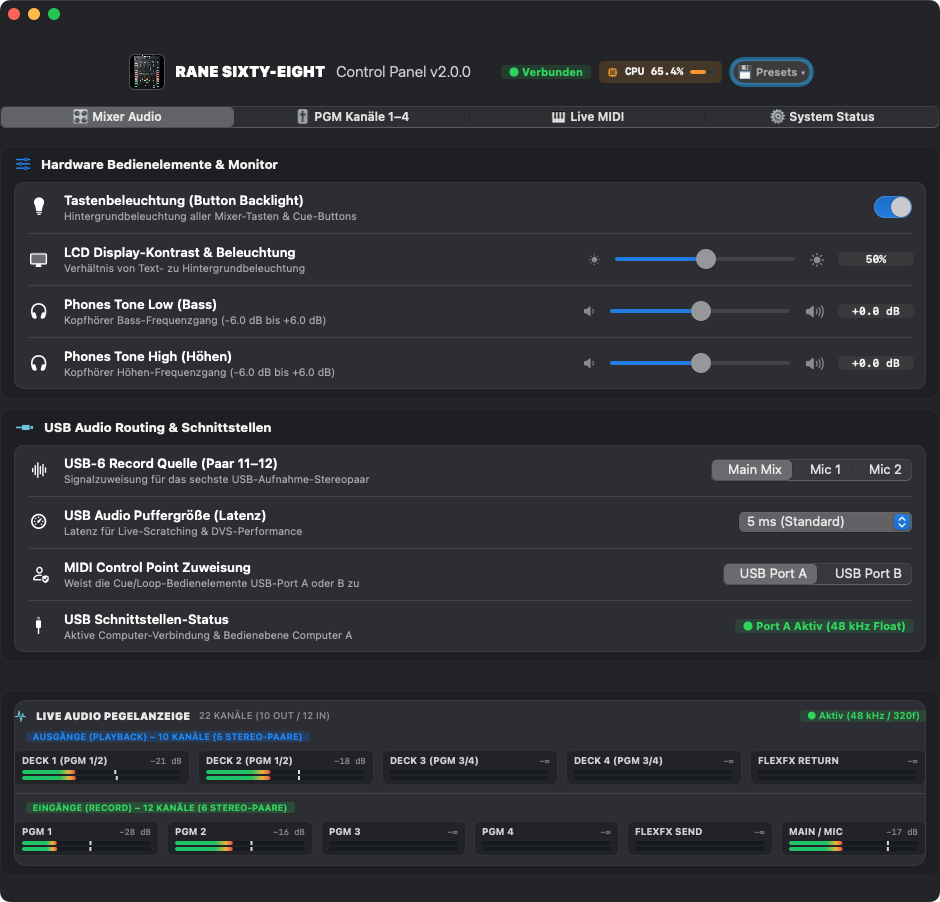
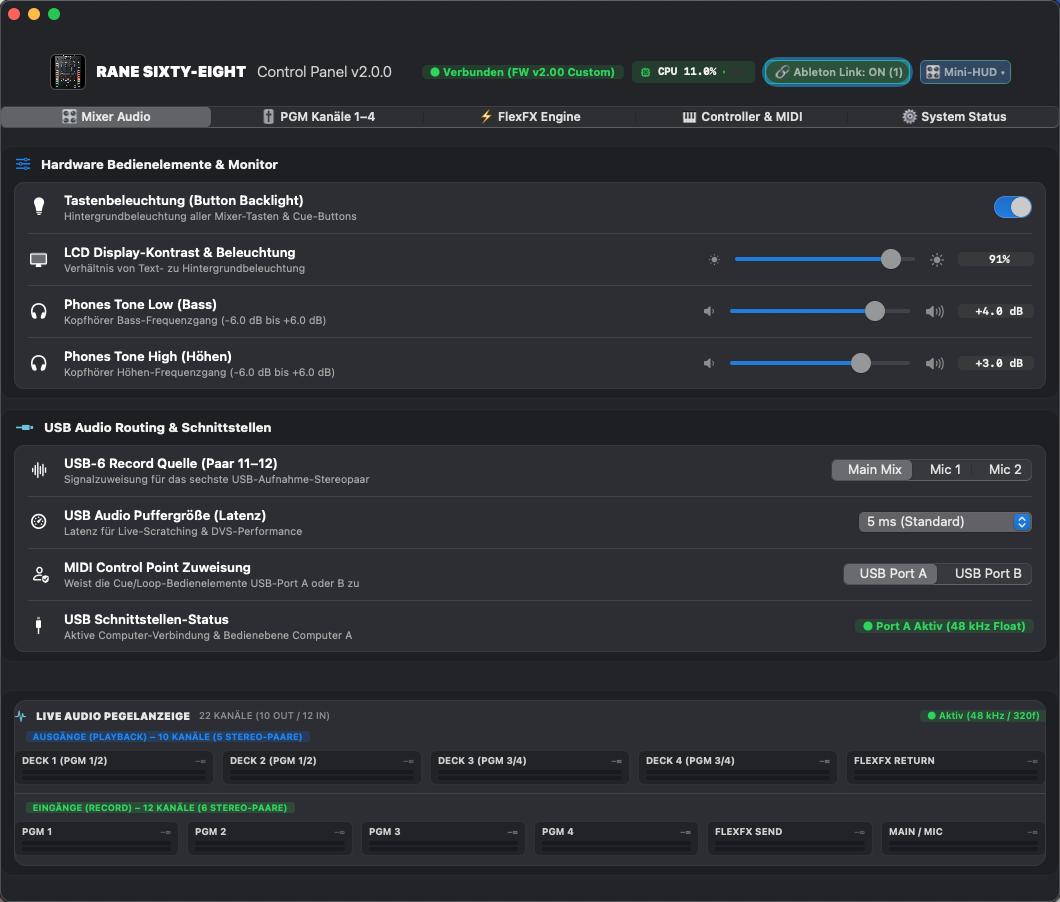
docs: add comprehensive User Guide with screenshots for all tabs, VST engine, and Mini-HUD
- Add docs/USER_GUIDE.md detailing all 5 tabs, 1-slot VST routing, Ableton Link setup, MIDI Learn, and DJ DAW integration
- Capture high-resolution screenshots for all tabs: Mixer Audio, PGM Channels, FlexFX Engine, VST GUI Editor, Controller & MIDI, System Status, and Mini-HUD
- Update README.md with link to the User Guide and interactive screenshot table

diff --git a/docs/USER_GUIDE.md b/docs/USER_GUIDE.md
@@ -1,0 +1,183 @@
+# 📖 Rane Sixty-Eight Control Panel & Treiber – Benutzerhandbuch
+
+Willkommen zum umfassenden Benutzerhandbuch für das **Rane Sixty-Eight Control Panel** und den **CoreAudio HAL-Treiber**. Dieses Dokument führt Sie Schritt für Schritt durch alle Funktionen, Tabs, VST-Effekt-Routings und Ableton-Link-Synchronisationen.
+
+---
+
+## 📑 Inhaltsverzeichnis
+
+1. [Übersicht & Schnellstart](#1-übersicht--schnellstart)
+2. [Tab 1: 🎛 Mixer Audio & Globale Einstellungen](#2-tab-1-🎛-mixer-audio--globale-einstellungen)
+3. [Tab 2: 🎚 PGM Kanäle 1–4 (Preamp & Phono-Setup)](#3-tab-2-🎚-pgm-kanäle-1–4-preamp--phono-setup)
+4. [Tab 3: ⚡ FlexFX Engine, VST-Plugins & Ableton Link](#4-tab-3-⚡-flexfx-engine-vst-plugins--ableton-link)
+   - [Die 1-Slot Kanal-Architektur](#die-1-slot-kanal-architektur)
+   - [VST-Plugin laden und Editor öffnen](#vst-plugin-laden-und-editor-öffnen)
+   - [Signalfluss, Pegel & VST-Ducking](#signalfluss-pegel--vst-ducking)
+   - [Ableton Link & Beat-Synchronisation](#ableton-link--beat-synchronisation)
+5. [Tab 4: 🎹 Controller & Live MIDI-Monitor](#5-tab-4-🎹-controller--live-midi-monitor)
+   - [Live MIDI-Log & Filter](#live-midi-log--filter)
+   - [Interaktives MIDI Learn](#interaktives-midi-learn)
+6. [Tab 5: ⚙ System Status, CPU & Hardware-Diagnose](#6-tab-5-⚙-system-status-cpu--hardware-diagnose)
+   - [Hardware-LED-Test & Selbsttests](#hardware-led-test--selbsttests)
+   - [Individueller Mixer-OLED-Begrüßungstext](#individueller-mixer-oled-begrüßungstext)
+7. [Mini-HUD Modus (Floating Live-Overlay)](#7-mini-hud-modus-floating-live-overlay)
+8. [Setup-Guide für DJ-Software (Traktor Pro, Ableton Live, Serato)](#8-setup-guide-für-dj-software)
+
+---
+
+## 1. Übersicht & Schnellstart
+
+Das Rane Sixty-Eight Control Panel ist die zentrale Schaltzentrale für Ihren Rane Sixty-Eight DJ-Mixer unter modernem macOS (macOS 11 Big Sur bis macOS 15 Sequoia).
+
+```mermaid
+flowchart TD
+    Hardware["Rane Sixty-Eight Mixer (USB Port A / B)"] <--> Driver["CoreAudio HAL Driver (RaneHAL.driver)"]
+    Driver <--> Manager["Rane Sixty-Eight Control Panel.app"]
+    Driver <--> DAW["DJ-Software (Traktor / Serato / Ableton)"]
+    Manager <--> Link["Ableton Link Session (WLAN / LAN)"]
+    Manager <--> VST["VST2 Effekt-Plugins (.vst)"]
+```
+
+* **Keine Kernel Extensions (Kexts):** Der Treiber läuft 100% im User-Space innerhalb von `coreaudiod`. System Integrity Protection (SIP) muss nicht deaktiviert werden.
+* **22 Audiokanäle:** 10 Playback-Kanäle (Ausgänge vom Mac zum Mixer) und 12 Record-Kanäle (Eingänge vom Mixer in den Mac) bei nativer 48.000 Hz / 32-Bit Float Auflösung.
+
+---
+
+## 2. Tab 1: 🎛 Mixer Audio & Globale Einstellungen
+
+Hier konfigurieren Sie die Hardware-Eigenschaften des Mixers und die CoreAudio-Puffergröße.
+
+![Tab 1: Mixer Audio](screenshots/tab1_mixer_audio.png)
+
+### Kernfunktionen:
+1. **Master Kopfhörer-EQ (Phones Tone):**
+   * Regelt `Low Tone` (-6 dB bis +6 dB) und `High Tone` (-6 dB bis +6 dB) des Kopfhörerverstärkers.
+2. **Hardware-Display & Beleuchtung:**
+   * **LCD Kontrast:** Schieberegler zur Anpassung des FlexFX-Displays am Mixer.
+   * **Mixer-Hintergrundbeleuchtung:** Ein-/Ausschalten der beleuchteten Knöpfe und LED-Taster.
+3. **USB 6 Record Source:**
+   * Bestimmt, welches Signal auf USB-Kanal 11–12 zum Mac übertragen wird (z. B. `Main Mix`, `Mic` oder `Aux`).
+4. **Puffergröße & Latenz (Buffer Frame Size):**
+   * Einstellbar von **64** bis **4096 Samples**.
+   * *Empfehlung für Live-DJing:* **256 Samples** (5,3 ms bei 48 kHz) oder **512 Samples** (10,6 ms).
+5. **Live Audio-Pegelanzeige (Bottom Bar):**
+   * Zeigt permanent in allen Tabs die Ein- und Ausgangspegel aller 22 Kanäle in Echtzeit an.
+
+---
+
+## 3. Tab 2: 🎚 PGM Kanäle 1–4 (Preamp & Phono-Setup)
+
+Konfiguration der Vorverstärker für Plattenspieler (Phono) und CD/Line-Zuspieler.
+
+![Tab 2: PGM Kanäle 1-4](screenshots/tab2_pgm_channels.png)
+
+### Kernfunktionen:
+1. **Phono-Vorverstärker Empfindlichkeit:**
+   * Einstellbare Vorverstärkung in dB für Tonabnehmer mit niedrigerem oder höherem Ausgangspegel.
+2. **Eingangskapazität (Phono Resonance):**
+   * Anpassung der Kapazität (in Picofarad, pF) zur perfekten Frequenzgang-Optimierung Ihrer Tonabnehmer (z. B. Shure M44-7, Ortofon Concorde).
+3. **Hardware-Statusanzeige:**
+   * Zeigt den aktuellen Zustand der physischen Schalter auf der Rückseite (`LINE` vs. `PHONO`) und der Drehschalter (`USB 1–4`, `PH/CD`, `AUX`) sowie der Crossfader-Zuweisung (`CROSSFADER A / POST / B`) an.
+
+---
+
+## 4. Tab 3: ⚡ FlexFX Engine, VST-Plugins & Ableton Link
+
+Das Herzstück für moderne DJ-Sets: Binden Sie beliebige Studio-Effekte (Delays, Reverbs, Filter) direkt in die Kanalzüge ein und synchronisieren Sie diese über das Ableton Link Protokoll.
+
+![Tab 3: FlexFX Engine](screenshots/tab3_flexfx_engine.png)
+
+### Die 1-Slot Kanal-Architektur
+Jeder Kanalzug verfügt über genau einen dedizierten, latenzfreien VST-Slot:
+* **Kanal 1–4 (PGM 1..4):** Schaltet den VST-Effekt direkt als Kanal-Insert auf Deck 1 bis Deck 4.
+* **Kanal 5 (FlexFX Return):** Verarbeitet das Return-Signal des analogen FlexFX-Hardware-Send-Busses des Mixers.
+
+### VST-Plugin laden und Editor öffnen
+1. Klicken Sie auf den gewünschten Kanalreiter (z. B. `PGM 1 (Deck 1)`).
+2. Wählen Sie im Dropdown-Menü das gewünschte VST2-Plugin aus (z. B. *ValhallaDelay*, *FabFilter Timeless*, *TAL-Dub-X*).
+   * *Tipp:* Mit dem Button **„🔄 VST scannen“** können Sie neu installierte Plugins in `/Library/Audio/Plug-Ins/VST/` jederzeit neu einlesen.
+3. Klicken Sie auf **„🎛 Editor“**, um das Original-Plugin-Interface zu öffnen:
+
+![VST Editor](screenshots/tab3_vst_editor.png)
+
+### Signalfluss, Pegel & VST-Ducking
+* **Pre-Gain & Post-Gain:** Regeln den Eingangspegel in den Effekt und den Ausgangspegel zurück in den Kanal.
+* **Direkter Signalpfad (Dry):** Gewährleistet, dass das Original-Musiksignal stets 100% sauber und ohne Phasenprobleme erhalten bleibt.
+* **VST Ducking Slider:** Regelt automatisch das Dry-Signal herunter, wenn der Effekt-Pre-Gain aufgedreht wird (intelligente Cross-Fade-Dynamik).
+
+### Ableton Link & Beat-Synchronisation
+* **Link Aktivieren:** Klicken Sie auf den Button **`🔗 Ableton Link: ON`**. Sobald ein anderes Gerät oder eine App im selben WLAN/Netzwerk aktiv ist, leuchtet der Badge grün: **`● ABLETON LINK: ON (1 PEER)`**.
+* **Phasenstabilität:** Das Mixer-OLED und die 4 Beat-LEDs richten sich über das Link-Beatgrid automatisch am 4/4-Takt aus.
+* **Hardware BPM-Sync:** Der Mixer empfängt das Link-Tempo automatisch; auf dem Mixer-OLED blinkt der Asterisk `*` im Takt der Musik.
+
+---
+
+## 5. Tab 4: 🎹 Controller & Live MIDI-Monitor
+
+Das Control Panel empfängt und visualisiert alle MIDI-Nachrichten des Rane Sixty-Eight.
+
+![Tab 4: Controller & MIDI](screenshots/tab4_controller_midi.png)
+
+### Live MIDI-Log & Filter
+* **Kanal- und Event-Filter:** Blenden Sie gezielt bestimmte MIDI-Kanäle (Ch 1–16) oder Nachrichtentypen (Note-On, Control Change, Pitch Bend) ein oder aus.
+* **Auto-Scroll & Pause:** Halten Sie den Log an, um gesendete Werte von Fadern, Knöpfen oder Encodern präzise zu untersuchen.
+
+### Interaktives MIDI Learn
+Sie können jeden virtuellen Button und Regler der App direkt auf Tasten oder Knöpfe des Rane Sixty-Eight mappen:
+1. Klicken Sie auf das **„🎹 MIDI Learn“**-Badge neben dem gewünschten Parameter (das Badge leuchtet gelb auf).
+2. Bewegen oder drücken Sie das gewünschte Bedienelement am Mixer.
+3. Das Mapping wird sofort gespeichert und aktiv geschaltet.
+
+---
+
+## 6. Tab 5: ⚙ System Status, CPU & Hardware-Diagnose
+
+Umfassende Diagnose- und Überwachungswerkzeuge für maximale Stabilität im Live-Betrieb.
+
+![Tab 5: System Status](screenshots/tab5_system_status.png)
+
+### Hardware-LED-Test & Selbsttests
+* **LED Chaser Lichtcheck:** Testet alle LEDs und Hintergrundbeleuchtungen der Mixer-Oberfläche nacheinander.
+* **USB-Stresstest:** Überprüft die Bandbreite und Puffer-Integrität des USB-Busses unter Maximallast.
+
+### Individueller Mixer-OLED-Begrüßungstext
+Im Feld **„Mixer OLED Begrüßungstext“** können Sie einen zweizeiligen Text (jeweils 14 Zeichen) eingeben (z. B. `DJ RESIDENT` / `READY TO ROCK`). Dieser wird beim Einschalten der App für 5 Sekunden auf dem physikalischen Mixer-Display angezeigt.
+
+---
+
+## 7. Mini-HUD Modus (Floating Live-Overlay)
+
+Wenn Sie während des Auflegens mit Traktor Pro, Serato DJ oder Ableton Live den gesamten Bildschirm für Ihre Decks benötigen, können Sie das Control Panel in das **Mini-HUD** minimieren:
+
+1. Klicken Sie oben rechts im Header auf **„🎛 Mini-HUD ▾“**.
+2. Das große Fenster wird ausgeblendet und ein schlankes, frei verschiebbares Floating-Panel dockt sich an:
+
+![Mini HUD](screenshots/mini_hud.png)
+
+* **Features im Mini-HUD:**
+  * Live BPM-Anzeige & Takt-Punkte.
+  * Ableton Link Verbindungsstatus.
+  * 1-Klick-Effekt-Schalter (An / Aus) und Vor/Nachher-Routing (PRE / POST).
+  * Mit **`⤢ FULL`** kehren Sie jederzeit sofort in das vollständige Control Panel zurück.
+
+---
+
+## 8. Setup-Guide für DJ-Software
+
+### Traktor Pro 3 / 4
+1. **Audio Device auswählen:** In *Preferences → Audio Setup* als Audio Device **„Rane Sixty-Eight“** wählen.
+2. **Puffergröße (Latency):** Auf **256 Samples** (oder 512 Samples) einstellen.
+3. **Output Routing:**
+   * *Deck A:* Output 1 / 2 (PGM 1)
+   * *Deck B:* Output 3 / 4 (PGM 2)
+   * *Deck C:* Output 5 / 6 (PGM 3)
+   * *Deck D:* Output 7 / 8 (PGM 4)
+4. **Flüssige Waveforms:** Falls die Waveform auf externen Bildschirmen ruckelt, stellen Sie in den macOS-Systemeinstellungen die Bildwiederholrate des Monitors auf **60 Hz** ein.
+
+### Ableton Live
+1. In *Einstellungen → Audio* den **Rane Sixty-Eight** als Audio-Eingangs- und Ausgangsgerät festlegen.
+2. Im Control Panel oben rechts auf **`🔗 Ableton Link: ON`** klicken und in Ableton Live oben links ebenfalls **`Link`** aktivieren. Beide Programme synchronisieren Tempo und Takt sofort über das lokale Netzwerk.
+
+---
+
+*Entwickelt mit Leidenschaft für die Rane Sixty-Eight DJ-Community.*

diff --git a/README.md b/README.md
@@ -15,17 +15,26 @@ A modern, high-performance, **100% User-Space CoreAudio HAL Driver** and **MIDI 
 > [!NOTE]
 > **Zero Kernel Extensions (Kexts) required!** Runs completely in user-space inside macOS `coreaudiod`. No need to disable System Integrity Protection (SIP) or lower system security on Apple Silicon.
 
+📖 **[Ausführliches Benutzerhandbuch & Dokumentation (User Guide)](docs/USER_GUIDE.md)** mit Schritt-für-Schritt-Anleitungen für alle Tabs, VST2-Effekte, Ableton Link und DJ-Software-Einrichtung (Traktor / Serato / Ableton).
+
 ---
 
-## 📸 Screenshots
+## 📸 Screenshots & Interface-Übersicht
 
-| 🎛 Mixer Audio & Buffer Latency | 🎚 PGM Channels 1–4 Routing |
+| 🎛 Mixer Audio & CoreAudio Latenz | 🎚 PGM Kanäle 1–4 Preamp & Resonanz |
 | :---: | :---: |
-| ![Mixer Audio](docs/screenshots/tab1_mixer_audio.png) | ![PGM Channels](docs/screenshots/tab2_pgm_channels.png) |
+| [![Mixer Audio](docs/screenshots/tab1_mixer_audio.png)](docs/USER_GUIDE.md#2-tab-1-🎛-mixer-audio--globale-einstellungen) | [![PGM Channels](docs/screenshots/tab2_pgm_channels.png)](docs/USER_GUIDE.md#3-tab-2-🎚-pgm-kanäle-1–4-preamp--phono-setup) |
 
-| 🎹 Live MIDI Monitor & Channel Setup | ⚙ System Status & Hardware LED Check |
+| ⚡ FlexFX VST-Host & Ableton Link | 🎛 VST2 GUI-Editor (FabFilter / Valhalla) |
 | :---: | :---: |
-| ![Live MIDI](docs/screenshots/tab3_live_midi.png) | ![System Status](docs/screenshots/tab4_system_status.png) |
+| [![FlexFX Engine](docs/screenshots/tab3_flexfx_engine.png)](docs/USER_GUIDE.md#4-tab-3-⚡-flexfx-engine-vst-plugins--ableton-link) | [![VST Editor](docs/screenshots/tab3_vst_editor.png)](docs/USER_GUIDE.md#vst-plugin-laden-und-editor-öffnen) |
+
+| 🎹 Controller & Live MIDI-Monitor | ⚙ System Status & Hardware-Diagnose |
+| :---: | :---: |
+| [![Live MIDI](docs/screenshots/tab4_controller_midi.png)](docs/USER_GUIDE.md#5-tab-4-🎹-controller--live-midi-monitor) | [![System Status](docs/screenshots/tab5_system_status.png)](docs/USER_GUIDE.md#6-tab-5-⚙-system-status-cpu--hardware-diagnose) |
+
+### 🎛 Mini-HUD Modus (Floating Live-Overlay für DJ-Decks)
+[![Mini HUD](docs/screenshots/mini_hud.png)](docs/USER_GUIDE.md#7-mini-hud-modus-floating-live-overlay)
 
 ---
 
